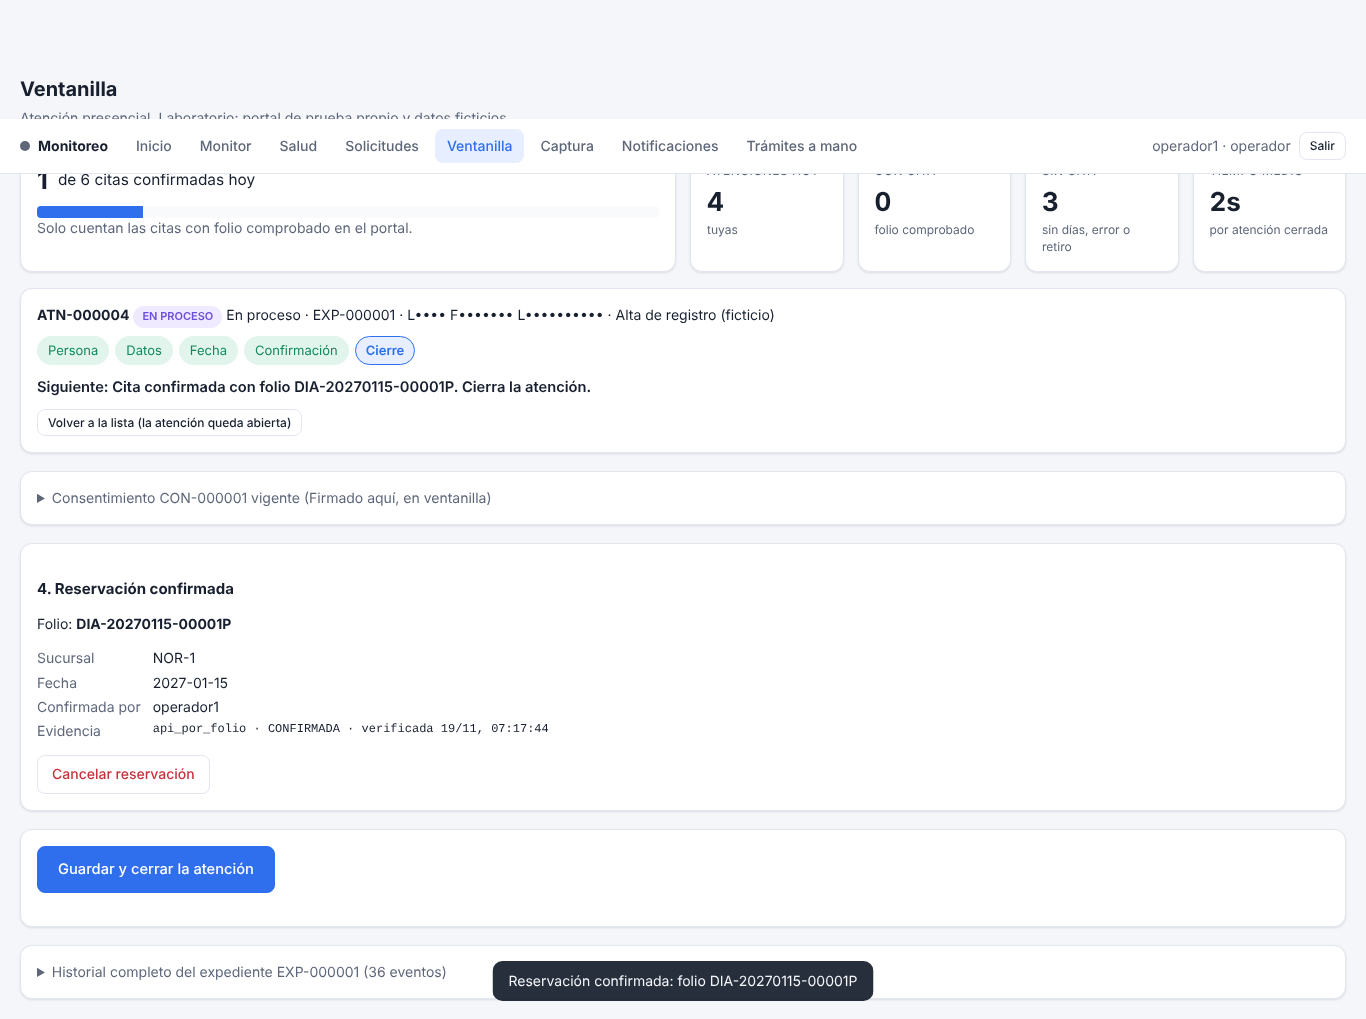
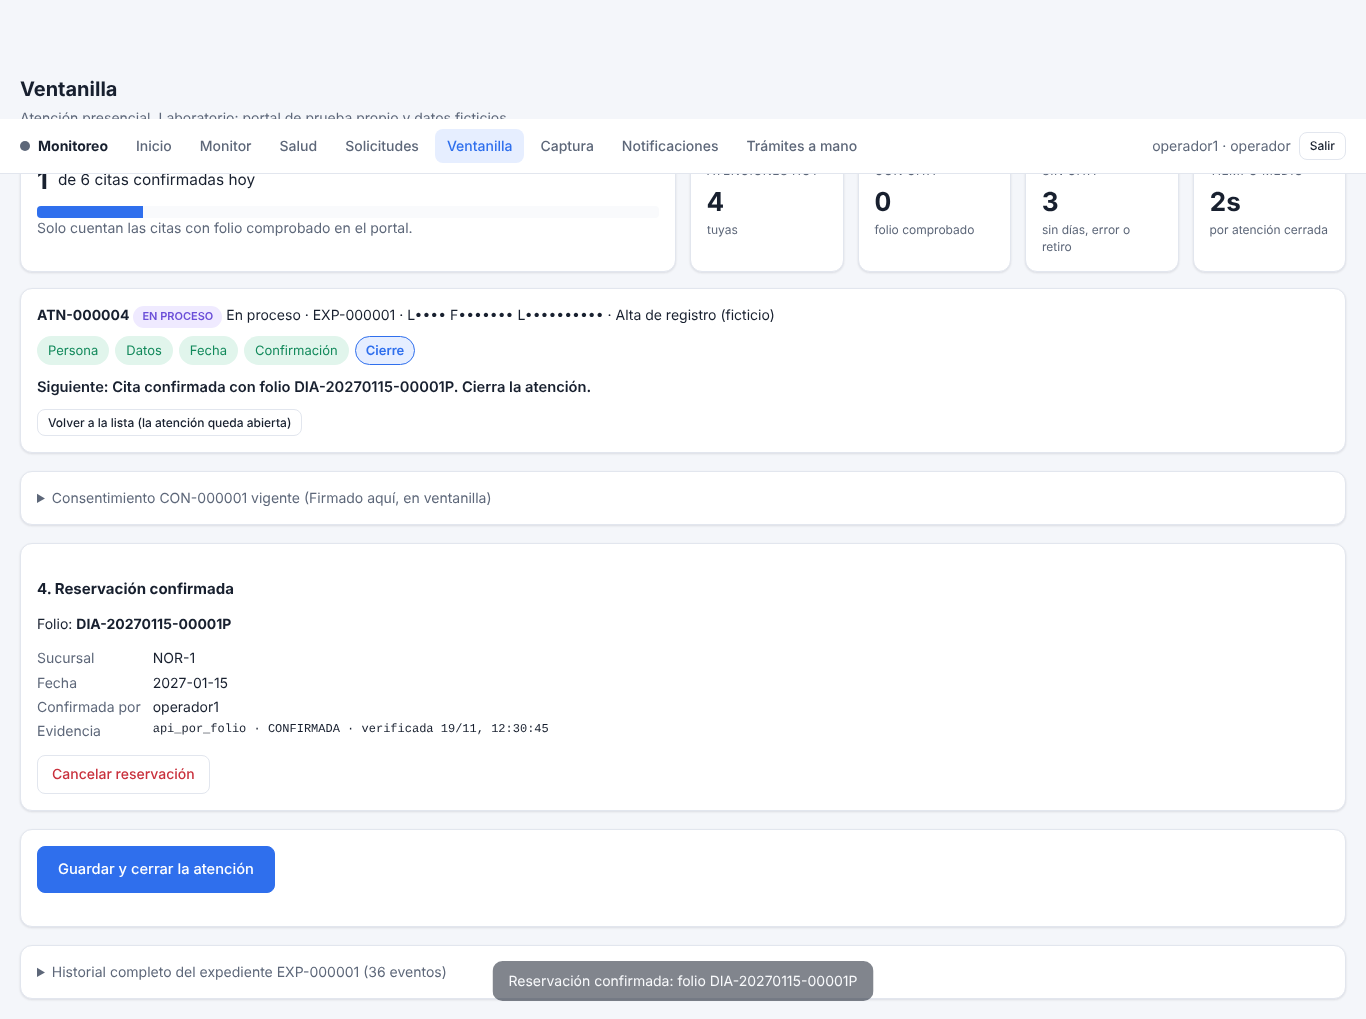
v2.3.1 cierre: carrera revocar/mantenimiento demostrada y corregida; plan CONFIRMADO en el recorrido; permisos por API; guía Windows
- consentimiento.revocar informa el estado final aunque el mantenimiento se adelante (huella de la CI
  Windows 3.11 reproducida con prueba determinista)
- recorrido v2.3: comprueba plan CONFIRMADO e historial tras el folio (21/21)
- prueba de permisos por API directa (operador/administrador)
- docs/VALIDAR_v2.3_WINDOWS.md e INFORME_v2.3.1_cierre.md

Claude-Session: https://claude.ai/code/session_011a7AvyHCB6AVkV4hUobyPv

Changed region(s): [[0.3382, 0.9431, 0.6457, 1.0]]

diff --git a/tests/test_recorrido_v23.py b/tests/test_recorrido_v23.py
@@ -148,3 +148,52 @@ def test_bat_de_la_23_son_ascii_y_crlf():
         b.decode("ascii")
         assert b"\r\n" in b and b.count(b"\n") == b.count(b"\r\n"), nombre
     assert "MONITOREO_SIN_PAUSA" in (raiz / "recorrido_ventanilla.bat").read_text(encoding="ascii")
+
+
+# ---------------------------------------------------------------- v2.3.1 · permisos por API directa
+def test_permisos_por_api_directa_operador_y_administrador(lab, monkeypatch):
+    """Decisión de Diego (2026-11-19): el operador SOLO deja en el plan abierto de hoy el expediente de su
+    propia atención; crear, ampliar, llenar o retirar del plan, el observador, el calendario del laboratorio
+    y decidir duplicados son del administrador. Se comprueba llamando a la API directamente."""
+    op = lab.ops["op1"]
+    a = con_expediente(lab, op)
+    # 1. sin plan de hoy, ni con un plan de mañana: el operador no puede crear uno
+    _plan(lab, jornada=_hoy() + timedelta(days=1))
+    assert _al_plan(lab, op, a["id"]).json()["detail"]["codigo"] == "SIN_PLAN"
+    assert lab.c.post("/api/planes", headers=op, json={"fecha_jornada": _hoy().isoformat(), "capacidad": 3}).status_code == 403
+    pid = _plan(lab, capacidad=3)
+    eid = a["expediente"]["id"]
+    q = {"sucursal": "NOR-1", "tramite": "alta"}
+    prohibidas = [
+        ("POST", f"/api/planes/{pid}/ampliar", {"capacidad": 9}),
+        ("POST", f"/api/planes/{pid}/seleccionar", {"cuantos": 1}),
+        ("POST", f"/api/planes/{pid}/elementos", {"expediente_ids": [eid]}),
+        ("POST", "/api/observador", {**q, "mes": "2030-01"}),
+        ("DELETE", "/api/observador", None),
+        ("POST", "/api/planificador/sincronizar", None),
+        ("POST", f"/api/expedientes/{eid}/duplicados/descartar", {"otro": "EXP-000001", "motivo": "no es la misma"}),
+        ("GET", "/api/laboratorio/portal", None),
+        ("POST", "/api/laboratorio/portal/calendario/habilitar", {**q, "fecha": "2030-01-10"}),
+        ("GET", "/api/laboratorio/portal/registros", None),
+    ]
+    for metodo, ruta, body in prohibidas:
+        r = lab.c.request(metodo, ruta, headers=op, json=body)
+        assert r.status_code == 403, (metodo, ruta, r.status_code, r.text[:120])
+    # 2. el consentimiento se respeta en el servidor (no solo en la pantalla)
+    monkeypatch.setenv("MONITOREO_EXIGIR_CONSENTIMIENTO", "1")
+    r = _al_plan(lab, op, a["id"])
+    assert r.status_code == 409 and "consentimiento" in r.text, r.text
+    with lab.db.session() as s:
+        assert s.get(Atencion, a["id"]).cerrada_en is None
+    monkeypatch.setenv("MONITOREO_EXIGIR_CONSENTIMIENTO", "0")
+    # 3. la atención de OTRO operador no se puede mandar al plan, ni con su id adivinado
+    assert _al_plan(lab, lab.ops["op2"], a["id"]).status_code == 404
+    # 4. la suya sí, una sola vez; repetirla no duplica el elemento
+    assert _al_plan(lab, op, a["id"]).status_code == 200
+    assert _al_plan(lab, op, a["id"]).status_code == 409                       # la atención ya se cerró
+    with lab.db.session() as s:
+        n = len(list(s.scalars(select(PlanElemento).where(PlanElemento.plan_id == pid, PlanElemento.expediente_id == eid))))
+    assert n == 1
+    # 5. el administrador sí puede todo lo anterior (no son rutas rotas: el 403 es el permiso)
+    assert lab.c.post(f"/api/planes/{pid}/ampliar", headers=lab.h, json={"capacidad": 4}).status_code == 200
+    assert lab.c.post("/api/planificador/sincronizar", headers=lab.h).status_code == 200

diff --git a/tests/test_consentimiento_v22.py b/tests/test_consentimiento_v22.py
@@ -205,6 +205,48 @@ def test_revocar_con_fecha_elegida_descarta_el_intento_y_no_confirma(lab):
         assert s.get(Reservacion, rid).folio is None
 
 
+def test_revocar_mientras_el_mantenimiento_aplica_la_misma_revocacion(lab, monkeypatch):
+    """v2.3.1 (fallo de la CI en Windows, demo_v22 paso 6): en cuanto se guarda el REVOCADO, el
+    mantenimiento del motor (otro hilo) puede descartar el intento ANTES que la petición. El estado
+    final era correcto, pero la respuesta decía `intento_descartado: None`. Se fuerza ese orden exacto."""
+    from monitoreo.captura import reservaciones as rs
+    eid, u, h = asignado(lab)
+    rid, _ = lab.hasta_fecha(eid, h)
+    real_ap, real_ci = cs.aplicar_revocacion, rs._cerrar_intento
+    descartado, fin_api, mant = threading.Event(), threading.Event(), {}
+
+    def cerrar_intento(*a, **kw):
+        v = real_ci(*a, **kw)
+        if threading.current_thread().name == "mantenimiento":
+            descartado.set()           # el mantenimiento ya descartó el intento ...
+            fin_api.wait(10)           # ... y se queda ahí hasta que la petición termina
+        return v
+
+    def aplicar(db, exp_id, actor, now, **kw):
+        if threading.current_thread().name == "mantenimiento":
+            return real_ap(db, exp_id, actor, now, **kw)
+        t = threading.Thread(target=lambda: mant.setdefault("r", cs.aplicar_revocaciones(db, utcnow())),
+                             name="mantenimiento")
+        t.start()
+        assert descartado.wait(10)
+        try:
+            return real_ap(db, exp_id, actor, now, **kw)
+        finally:
+            fin_api.set()
+            t.join(10)
+    monkeypatch.setattr(rs, "_cerrar_intento", cerrar_intento)
+    monkeypatch.setattr(cs, "aplicar_revocacion", aplicar)
+    out = revocar(lab, eid, h)
+    assert mant["r"][0]["intento_descartado"] is True          # lo descartó el mantenimiento
+    ef = out["efectos"]
+    assert ef["intento_descartado"] and ef["expediente_cerrado"] and ef["solicitud_cancelada"], ef
+    assert ef["pendiente"] is None, ef
+    assert res_estado(lab, rid) == "CANCELADA" and exp(lab, eid)["estado"] == "CERRADO"
+    r = lab.c.post(f"/api/reservaciones/{rid}/confirmar", headers=h, json={"confirmo": True})
+    assert r.status_code == 409, r.text
+    assert verificar(lab)["ok"]
+
+
 def test_revocar_con_cita_confirmada_avisa_y_no_cancela_sola(lab):
     eid, u, h = asignado(lab)
     rid, _ = lab.hasta_fecha(eid, h)

diff --git a/monitoreo/captura/consentimiento.py b/monitoreo/captura/consentimiento.py
@@ -46,7 +46,7 @@ from datetime import datetime, timedelta
 
 from sqlalchemy import select, update
 
-from ..models import Atencion, Consentimiento, ConsentimientoEvento, Expediente, PlanElemento, Reservacion
+from ..models import Atencion, Consentimiento, ConsentimientoEvento, Expediente, PlanElemento, Request, Reservacion
 from ..security import audit
 
 log = logging.getLogger("monitoreo.consentimiento")
@@ -350,8 +350,32 @@ def revocar(db, consentimiento_id: int, d: dict, user, now: datetime, ip: str = 
         _retirar_del_plan(s, exp.id, actor, now)
         exp.ultimo_error = f"{MOTIVO_CIERRE}: no se permiten nuevas operaciones"
         vc = vista(c)
-    efectos = aplicar_revocacion(db, c.expediente_id, actor, now)
+    efectos = _efectos_finales(db, c.expediente_id, aplicar_revocacion(db, c.expediente_id, actor, now))
     return {"consentimiento": vc, "repetida": False, "efectos": efectos}
+
+
+def _efectos_finales(db, exp_id: int, out: dict) -> dict:
+    """v2.3.1: el mantenimiento del motor (otro hilo) aplica también las revocaciones con el expediente
+    activo y puede adelantarse a esta petición en cuanto se guarda el REVOCADO (lo demostró la CI de
+    Windows: él descartaba el intento y la respuesta decía `intento_descartado: None`). Lo que se informa
+    a quien revoca es el estado FINAL, haga cada paso quien lo haga."""
+    from ..engine import assignment as asg
+    from . import expedientes as ex
+    with db.session() as s:
+        exp = s.get(Expediente, exp_id)
+        if exp is None:
+            return out
+        if out["intento_descartado"] is None and s.scalar(select(Reservacion.id).where(
+                Reservacion.expediente_id == exp_id, Reservacion.estado == "CANCELADA",
+                Reservacion.error_codigo == MOTIVO_CIERRE)) is not None:
+            out["intento_descartado"] = True
+        if not out["solicitud_cancelada"] and exp.request_id:
+            out["solicitud_cancelada"] = s.scalar(select(Request.status).where(Request.id == exp.request_id)) == asg.CANCELADO
+        if not out["expediente_cerrado"]:
+            out["expediente_cerrado"] = exp.estado == ex.CERRADO and exp.motivo_cierre == MOTIVO_CIERRE
+        if out["expediente_cerrado"] and out["pendiente"]:
+            out["pendiente"] = None
+    return out
 
 
 def _retirar_del_plan(s, exp_id: int, actor: str, now: datetime) -> int:

diff --git a/scripts/recorrido_ventanilla_v23.py b/scripts/recorrido_ventanilla_v23.py
@@ -127,6 +127,22 @@ def main() -> int:
                   {"tipos_faltantes": sorted({"CONSENTIMIENTO_REGISTRADO", "PLAN_AGREGADO", "PLAN_COINCIDENCIA",
                                               "RESERVACION_CONFIRMADA"} - tipos),
                    "atenciones": [x["resultado"] for x in t.get("atenciones", [])]})
+            # --- v2.3.1: el plan se sincroniza solo (mantenimiento del planificador) y el historial lo refleja
+            def plan_confirmado():
+                tt = adm.get(f"/api/expedientes/{e['id']}/trazabilidad").json()
+                return tt if any(x["estado"] == "CONFIRMADO" for x in tt.get("planes", [])) else None
+            t_plan = None
+            if e:
+                limite = time.time() + 30
+                while t_plan is None and time.time() < limite:
+                    t_plan = plan_confirmado()
+                    if t_plan is None:
+                        time.sleep(0.5)
+            check("plan · el elemento del plan pasa a CONFIRMADO tras el folio y el historial lo refleja",
+                  bool(t_plan) and [x["estado"] for x in t_plan["planes"]] == ["CONFIRMADO"]
+                  and any(r.get("folio") == folio and r.get("estado") == "CONFIRMADA" for r in t_plan["reservaciones"])
+                  and t_plan["atenciones"][-1]["folio"] == folio,
+                  {"planes": [x["estado"] for x in (t_plan or t).get("planes", [])]})
             check("historial · cadena de sellos del consentimiento íntegra", t.get("verificacion_consentimientos", {}).get("ok"),
                   t.get("verificacion_consentimientos"))
             dup = [x for x in adm.get("/api/expedientes", params={"estado": "CERRADO"}).json()

diff --git a/docs/VALIDAR_v2.3_WINDOWS.md b/docs/VALIDAR_v2.3_WINDOWS.md
@@ -1,0 +1,98 @@
+# Validar v2.3 en Windows físico (MSI) · paquete mínimo
+
+Todo con **datos ficticios** y el portal de laboratorio **propio** (127.0.0.1). No se conecta a ningún
+portal externo y no toca tu carpeta `data\` ni tu instalación normal.
+Tiempo aproximado: 25 minutos (10 de instalación, 1 de demostración automática, 15 a mano).
+
+## 0. Qué necesitas
+
+- Windows 10/11, Python 3.11, 3.12 o 3.13 (*Add python.exe to PATH*), Node.js LTS (https://nodejs.org).
+- Una carpeta **fuera de OneDrive**, por ejemplo `C:\cauce-v23`.
+
+## 1. Bajar la rama (sin fusionar nada)
+
+Con git:
+
+```powershell
+git clone -b claude/project-thread-2wwz8e https://github.com/dass-666/cauce-monitor-engine C:\cauce-v23
+```
+
+Sin git: en GitHub elige la rama `claude/project-thread-2wwz8e` → *Code* → *Download ZIP* y descomprímelo
+en `C:\cauce-v23`.
+
+## 2. Instalar (una vez)
+
+En PowerShell dentro de `C:\cauce-v23`:
+
+```powershell
+powershell -ExecutionPolicy Bypass -File .\instalar.ps1
+.venv\Scripts\python.exe scripts\preparar_navegador.py
+```
+
+La contraseña que pide `instalar.ps1` es para tu instalación normal; el laboratorio usa las suyas (abajo).
+
+## 3. Demostración automática (prueba que el equipo lo puede hacer)
+
+Doble clic en **`recorrido_ventanilla.bat`** (unos 30-60 s). Al final debe decir
+`RESULTADO: el recorrido completo paso` y `21/21 comprobaciones`.
+Deja el resultado en `resultados\recorrido_v23\recorrido_v23.json` y 20 capturas en
+`resultados\recorrido_v23\capturas\`. La «confirmación humana» la hace el script (así consta en el JSON).
+
+## 4. Recorrido a mano (lo que se pide validar)
+
+Doble clic en **`ventanilla_laboratorio.bat`**. Se abre el navegador en Ventanilla y la ventana negra
+muestra las direcciones. Datos del laboratorio:
+
+| Usuario | Clave | Rol |
+|---|---|---|
+| `admin` | `Admin-Laboratorio-2026` | plan del día, observador, calendario lab, duplicados |
+| `operador1` | `Operador-Laboratorio-2026` | atiende a la persona |
+
+Persona de prueba (inventada): nombre `Lucía Ficticia Laboratorio`, teléfono `5550001234`, correo
+`lucia.ficticia@ejemplo.test`, región NORTE, sucursal NOR-1. El registro previo y la fecha de nacimiento
+cópialos de **Calendario lab → registros ficticios** (son los únicos que el portal de laboratorio acepta).
+Consentimiento: aviso `AP-2026-01`, cualquier archivo de tu equipo como «documento firmado» (solo se
+calcula su huella; no se envía) y «Dónde está el original» **sin comas**, p. ej. `Carpeta 2026-11 hoja 14`.
+
+Usa dos navegadores (o una ventana privada) para tener admin y operador a la vez y sigue la tabla de
+`docs\GUIA_RECORRIDO_VENTANILLA_v2.3.md` §2 (10 pasos). Anota cualquier paso que no se pueda hacer con la
+pantalla.
+
+Comprobaciones a mano que más importan:
+
+1. El operador, en **su** atención, pulsa «Dejarla en el plan del día» y la persona aparece *En espera* en
+   el plan. El operador **no** ve botones para crear o ampliar el plan, ni el observador, ni Calendario lab.
+2. Tras «Confirmar», la atención muestra el **folio**; en *Plan del día* la fila pasa a **Confirmado**
+   (puede tardar unos segundos; pulsa *Actualizar estado*).
+3. El historial del expediente muestra atenciones, plan, operación con folio y consentimiento íntegro.
+
+## 5. Detenerlo correctamente
+
+- En la ventana negra de `ventanilla_laboratorio.bat` pulsa **`Ctrl + C`** una vez y espera el mensaje
+  final. Si Windows pregunta «¿Desea terminar el trabajo por lotes (S/N)?», responde **S**.
+- **No** la cierres con la X mientras el motor escribe: puede quedar un proceso sin cerrar
+  (no comprobado en Windows; con `Ctrl + C` sí se detienen motor y portal en Linux y en la CI).
+- Comprueba que no quedó nada abierto: `tasklist | findstr /i python` no debe mostrar procesos del
+  laboratorio. Si quedara alguno: `taskkill /f /im python.exe` (cierra **todos** los Python abiertos).
+- Al volver a abrir `ventanilla_laboratorio.bat`, todo sigue donde quedó. Para empezar de cero:
+  `ventanilla_laboratorio.bat --nuevo`.
+
+## 6. Conservar el resultado
+
+Con el laboratorio **detenido** (la base de datos no debe estar en uso), en PowerShell dentro de
+`C:\cauce-v23`:
+
+```powershell
+Compress-Archive -Path resultados\recorrido_v23, resultados\ventanilla_lab -DestinationPath "$HOME\Desktop\validacion_v23_$(Get-Date -Format yyyyMMdd_HHmm).zip"
+```
+
+El ZIP contiene el JSON de la demostración con sus capturas, y la carpeta del laboratorio (base de datos
+SQLite, registros del motor y del portal). Solo hay datos ficticios; `laboratorio.json` guarda las claves
+del portal de laboratorio, que solo sirven en ese equipo. Compártelo junto con tus anotaciones del paso 4.
+
+## 7. Qué reportar
+
+- Versión de Windows y de Python (`python --version`).
+- Resultado del paso 3 (`N/21`) y, si falló, el ZIP.
+- Pasos del recorrido a mano que no se pudieron hacer desde la pantalla, con captura.
+- Si `Ctrl + C` dejó algún proceso abierto (paso 5).

diff --git a/docs/INFORME_v2.3.1_cierre.md b/docs/INFORME_v2.3.1_cierre.md
@@ -1,0 +1,81 @@
+# Informe v2.3.1 · Cierre de Ventanilla (ronda corta)
+
+Fecha: 2026-11-19. Rama `claude/project-thread-2wwz8e` (sin fusionar, sin desplegar). Convención:
+**HECHO** (con evidencia), **INFERENCIA**, **PENDIENTE**. No toca `jarvis/` ni las ramas
+`claude/integracion-v2.2.2` y `claude/project-thread-6fxbwl`.
+
+## 1. demo_v22 paso 6 en Windows 3.11: era una carrera, no un intermitente (HECHO)
+
+**Síntoma (CI 44478520364):** al revocar el consentimiento con el día ya elegido, la respuesta decía
+`intento_descartado: None`, `solicitud_cancelada: True`, `expediente_cerrado: True`. El paso siguiente
+(confirmar después de revocar → 409, el portal no recibe nada) **sí pasó**: el estado final era correcto.
+
+**Causa demostrada:** `consentimiento.revocar` guarda el REVOCADO en una transacción y después aplica
+los efectos (`aplicar_revocacion`). El mantenimiento del motor (`aplicar_revocaciones`, otro hilo, cada
+pocos segundos) busca revocados con expediente activo y aplica los mismos efectos. Si corre en ese
+hueco, descarta él el intento; la petición ya no lo encuentra y lo informa como «no había intento».
+
+**Reproducción determinista:** `tests/test_consentimiento_v22.py::test_revocar_mientras_el_mantenimiento_aplica_la_misma_revocacion`
+fuerza ese orden con dos hilos y obtiene **exactamente** la huella de la CI. Falla sin el arreglo
+(`assert (None)`) y pasa con él.
+
+**Gravedad:** baja. Nunca hubo confirmación tras revocar ni efectos repetidos; el defecto era que la
+respuesta a quien revoca era falsa. Ninguna pantalla usa esos campos hoy; los scripts de evidencia sí.
+
+**Arreglo (mínimo):** `consentimiento._efectos_finales` completa la respuesta con el estado FINAL del
+expediente (intento cancelado por la revocación, solicitud cancelada, expediente cerrado por
+`CONSENTIMIENTO_REVOCADO`), lo haya hecho la petición o el mantenimiento. No cambia reglas, umbrales,
+la política de consentimiento ni el mantenimiento.
+
+**INFERENCIA:** por qué Windows 3.11: es la máquina más lenta y la que más tarda entre las dos
+transacciones; el orden también es posible en Linux. No es demostrable sin instrumentar la CI.
+
+## 2. El plan pasa a CONFIRMADO tras el folio (HECHO)
+
+El recorrido v2.3 comprueba ahora, fuera del navegador, que el elemento del plan llega a **CONFIRMADO**
+(lo hace el mantenimiento del planificador, `operacion.sincronizar`) y que el historial lo refleja: plan
+CONFIRMADO, reservación CONFIRMADA con el mismo folio y la última atención con ese folio.
+Resultado: **21/21** (`docs/resultados/v2.3/recorrido_v23.json`). Lo de la v2.3 («aún dice Operación
+preparada») era la captura tomada en el instante del cierre, antes de la sincronización.
+
+## 3. Permisos (HECHO, validados en el servidor)
+
+Decisión de Diego registrada: el operador deja en el plan abierto de hoy **solo** el expediente de su
+propia atención. `tests/test_recorrido_v23.py::test_permisos_por_api_directa_operador_y_administrador`
+llama a la API directamente con el token del operador:
+
+- **403** en: crear plan, ampliar, seleccionar, agregar elementos, observador (iniciar y detener),
+  sincronizar, decidir duplicados, Calendario lab (estado, abrir día, registros ficticios).
+- Sin plan de hoy (aunque exista uno de mañana): `SIN_PLAN`. Sin consentimiento vigente: 409 y la
+  atención sigue abierta. Atención de otro operador: 404. Repetir la misma: 409, sin elemento duplicado.
+- El administrador sí puede (no son rutas rotas). Ya cubiertos antes: capacidad (`PLAN_COMPLETO`),
+  fechas inválidas (422), atención sin expediente (409). Sucursales y fechas: las mismas reglas de
+  `plan.agregar`.
+
+## 4. Regresiones (HECHO, local)
+
+| Qué | Resultado |
+|---|---|
+| Suites afectadas (recorrido v2.3, consentimiento, ventanilla, planificador, propiedad) SQLite + PostgreSQL 16 | 135/135 |
+| `demo_v22` (paso 6 incluido), 3 ejecuciones seguidas | 36/36 las tres |
+| `demo_v20` | 28/28 |
+| `aceptacion_v21` | 42/42 |
+| `recorrido_ventanilla_v23` | 21/21 |
+| Suite completa SQLite | 595 pasan, 8 omitidas, 0 fallan |
+| CI de GitHub de este commit | ver §6 |
+
+## 5. Windows físico
+
+Paquete: **`docs/VALIDAR_v2.3_WINDOWS.md`** (bajar la rama, instalar, demostración automática,
+recorrido a mano con datos ficticios, detener con `Ctrl + C`, guardar el resultado en un ZIP, qué
+reportar).
+
+**PENDIENTE (lo tiene que hacer Diego en el MSI):** nada de esto se ha ejecutado en Windows físico.
+Tampoco está comprobado en Windows que cerrar con `Ctrl + C` detenga motor y portal sin dejar procesos
+(INFERENCIA por diseño; la guía incluye cómo comprobarlo).
+
+## 6. Pendiente
+
+1. Resultado de la CI de este commit (se anota abajo al terminar).
+2. Validación en el MSI con la guía del §5.
+3. Si el recorrido entra al manifiesto de Jarvis: exige volver a fijar; no se hizo.

diff --git a/docs/GUIA_RECORRIDO_VENTANILLA_v2.3.md b/docs/GUIA_RECORRIDO_VENTANILLA_v2.3.md
@@ -41,7 +41,7 @@ donde quedó (las atenciones abiertas se **retoman**). Para empezar de cero: `--
 ## 3. Demostración automática
 
 `recorrido_ventanilla.bat` (o `python scripts/recorrido_ventanilla_v23.py`) hace el mismo recorrido con
-un navegador automatizado (unos 30 s) y deja `resultados\recorrido_v23\recorrido_v23.json` y 20 capturas.
+un navegador automatizado (unos 30 s) y deja `resultados\recorrido_v23\recorrido_v23.json` (21 comprobaciones) y 20 capturas.
 La «persona» que confirma la cita es el script: la evidencia lo dice (`confirmacion_humana: SIMULADA`).
 Necesita Node.js y el navegador (`python scripts\preparar_navegador.py`).
 
